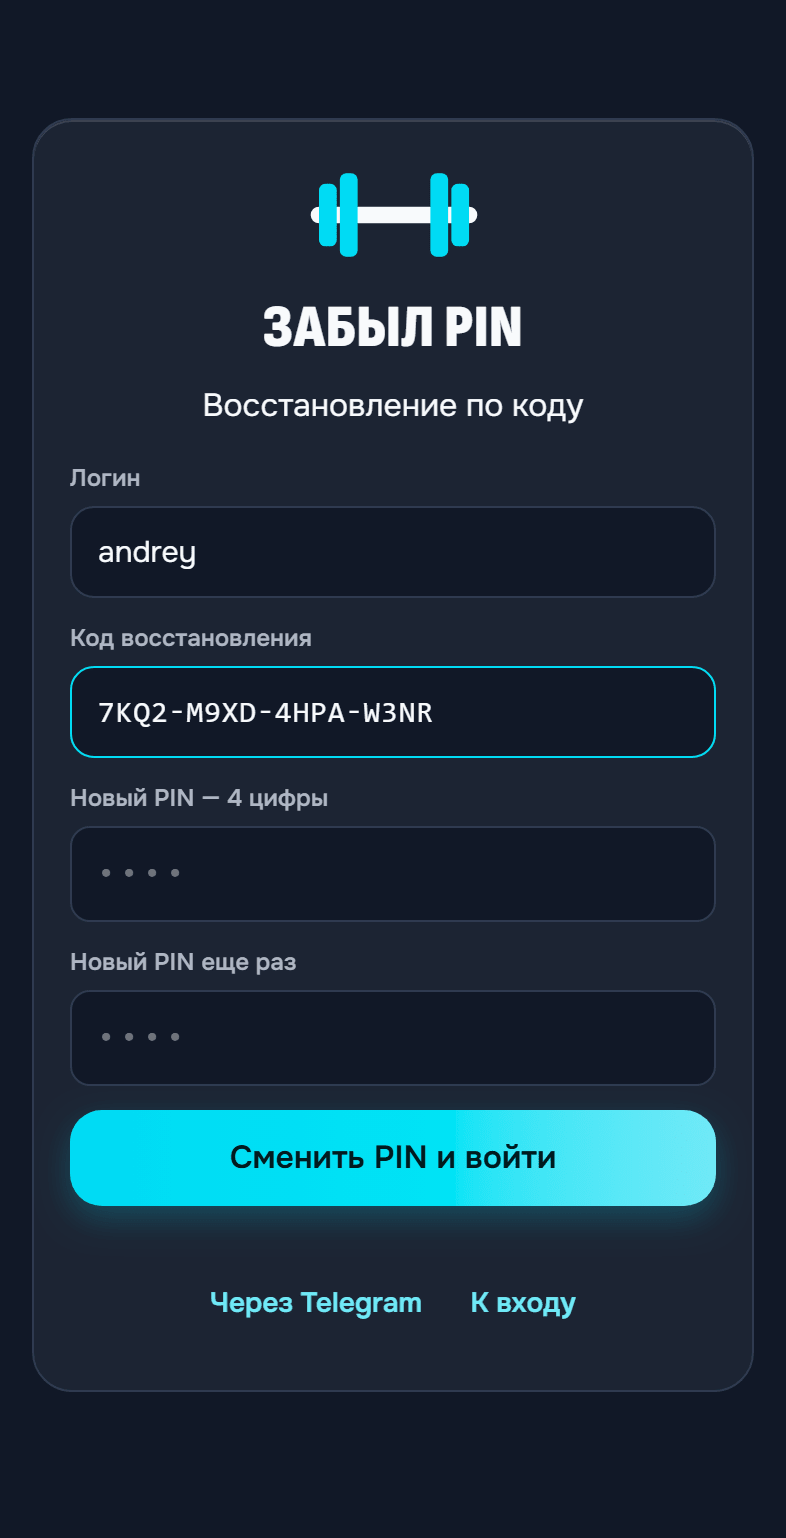
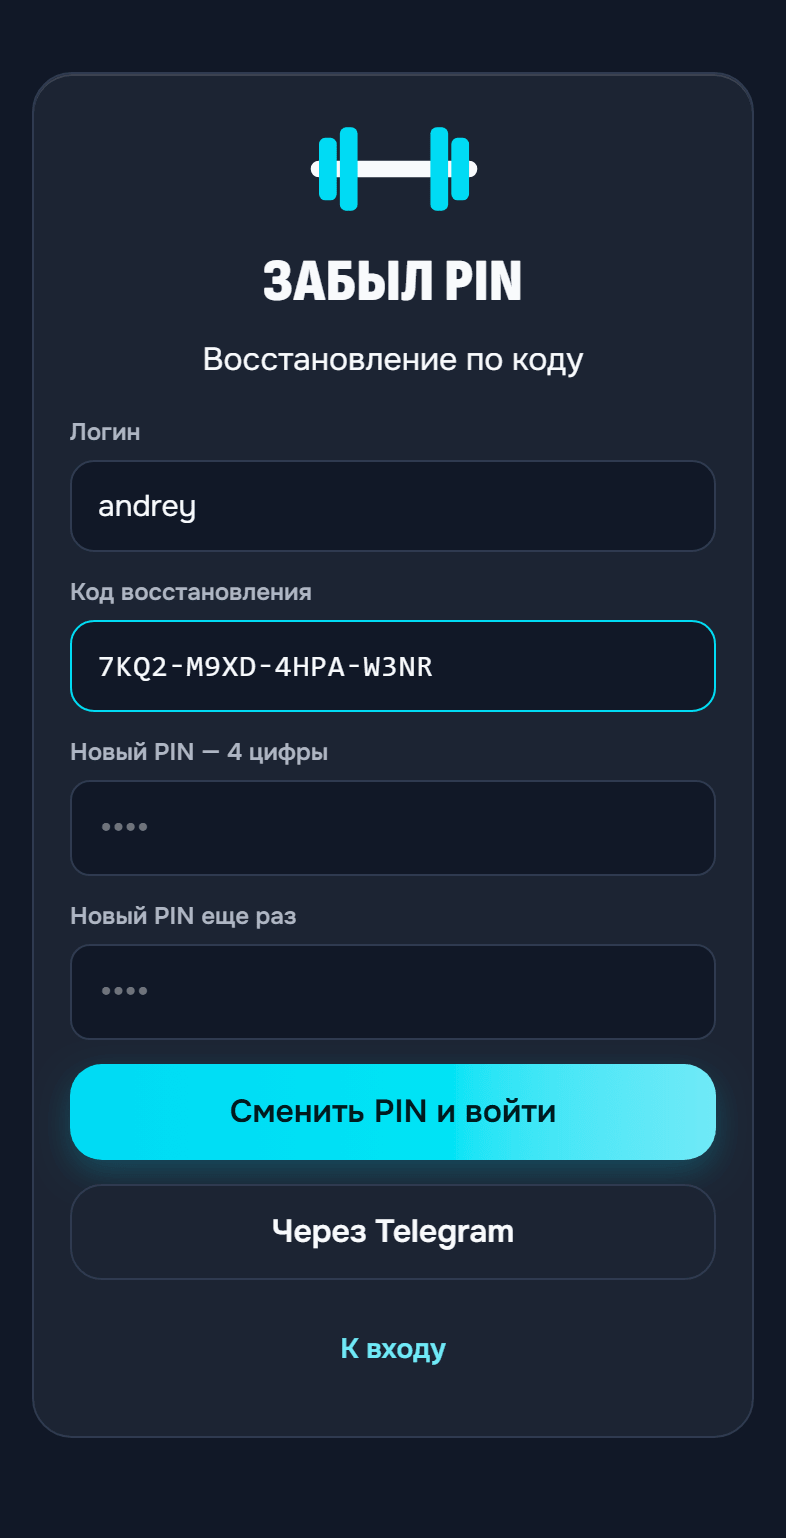
fix(login): кнопки экрана «Забыл PIN» по важности, высокая форма докручивается

diff --git a/src/components/recovery/ForgotPin.jsx b/src/components/recovery/ForgotPin.jsx
@@ -107,7 +107,7 @@ export default function ForgotPin({ initialLogin = '', onBack, onLogin }) {
 
   if (way === 'code') {
     return (
-      <form className="invite-form" onSubmit={byCode} noValidate>
+      <form className="invite-form forgot-form" onSubmit={byCode} noValidate>
         <p className="invite-lead">Восстановление по коду</p>
         {loginField}
         <div className="field">
@@ -120,8 +120,8 @@ export default function ForgotPin({ initialLogin = '', onBack, onLogin }) {
         <NewPinFields pin={pin} pin2={pin2} onPin={edit(setPin)} onPin2={edit(setPin2)} disabled={busy} />
         {error && <p className="error" role="alert">{error}</p>}
         <button className="btn primary" type="submit" disabled={busy}>{busy ? 'Проверяю…' : 'Сменить PIN и войти'}</button>
+        <button type="button" className="btn ghost" disabled={busy} onClick={() => { setError(''); setWay('tg') }}>Через Telegram</button>
         <div className="login-alt">
-          <button type="button" className="link-btn" disabled={busy} onClick={() => { setError(''); setWay('tg') }}>Через Telegram</button>
           <button type="button" className="link-btn" disabled={busy} onClick={onBack}>К входу</button>
         </div>
       </form>
@@ -129,13 +129,13 @@ export default function ForgotPin({ initialLogin = '', onBack, onLogin }) {
   }
 
   return (
-    <form className="invite-form" onSubmit={sendLink} noValidate>
+    <form className="invite-form forgot-form" onSubmit={sendLink} noValidate>
       <p className="invite-lead">Бот в Telegram пришлет ссылку — по ней задашь новый PIN.</p>
       {loginField}
       {error && <p className="error" role="alert">{error}</p>}
       <button className="btn primary" type="submit" disabled={busy}>{busy ? <BusyText>Отправляю</BusyText> : 'Прислать ссылку в Telegram'}</button>
+      <button type="button" className="btn ghost" disabled={busy} onClick={() => { setError(''); setWay('code') }}>Нет Telegram? Восстановить кодом</button>
       <div className="login-alt">
-        <button type="button" className="link-btn" disabled={busy} onClick={() => { setError(''); setWay('code') }}>Нет Telegram? Восстановить кодом</button>
         <button type="button" className="link-btn" disabled={busy} onClick={onBack}>К входу</button>
       </div>
       <p className="muted invite-note">Нет ни Telegram, ни кода — попроси админа сбросить PIN.</p>

diff --git a/src/index.css b/src/index.css
@@ -505,6 +505,7 @@ select.prog-select, select.admin-input {
 .screen.center {
   height: 100vh; height: 100dvh;
   display: flex; align-items: center; justify-content: center;
+  align-items: safe center; /* карточка выше экрана: без safe ее верх уходит туда, куда не докрутить */
   overflow-y: auto; overscroll-behavior: contain;
   /* Вход/загрузка/ошибки рендерятся ВНЕ .app и ограничены по ширине (max-width от
      .screen). Aurora-градиент на этом узком боксе рисовался только по центру, а по
@@ -4303,6 +4304,8 @@ html[data-sheet-open] .content { overflow-y: hidden; }
 /* вход по имени, «Хочу в круг» (v6.12.0) */
 .login-alt { display: flex; flex-wrap: wrap; justify-content: center; gap: 4px 16px; margin-top: 14px; }
 .login-alt .link-btn { min-height: 44px; font-weight: 600; }
+.forgot-form .btn.ghost { margin-top: 0; }
+.forgot-form .login-alt { margin-top: 0; }
 .join-status {
   margin-top: 14px; padding: 12px 14px; border-radius: var(--r-lg); background: var(--acc-soft);
   display: flex; flex-direction: column; gap: 6px; align-items: center; text-align: center;
